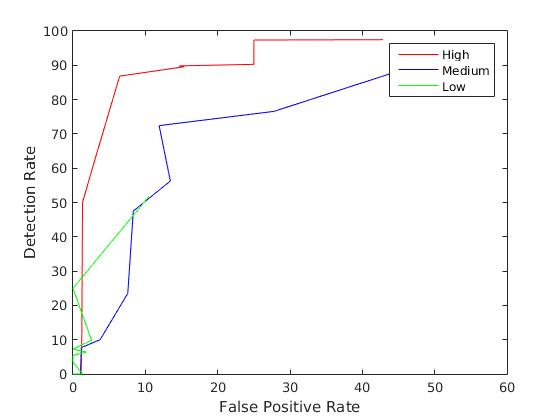
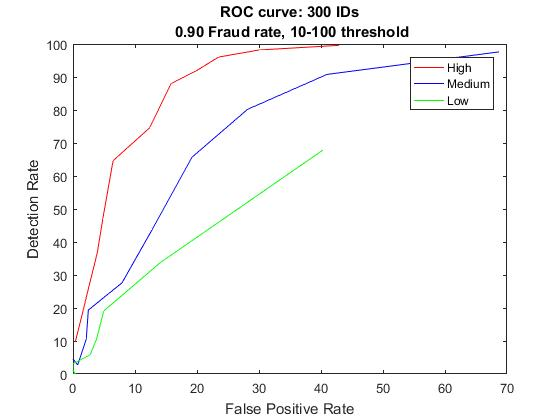
Results ROC

diff --git a/ROC_curves.m b/ROC_curves.m
@@ -33,7 +33,7 @@ cd ../../Thesis/; %Matlab Linux
 [hh, ID]=pickConsumers(sData);
 
 % pick some z vector 
-z=100; % Needs to be 300>
+z=300; % Needs to be 300>
 r_cons=randi(size(hh,1),z,1);
 somehh=hh(r_cons,:);
 someID=ID(r_cons,:);
@@ -102,10 +102,9 @@ for id_i=1:length(intensity)
             [precision_t, recall_t, in_recall_t, accuracy_t, F1score_t] = confusionMatrix (class_ID, pred_ID);
             DR_IDs(id_th, id_i)=recall_t;
             FPR_IDs(id_th,id_i)=in_recall_t;
-            
             rouf_id=find(pred_ID==1);
             roufianos=someID(rouf_id); % Keeps all the ID that contain intrusion
     end
 end
 
-plotCurves(FPR_IDs,DR_IDs);
+plotCurves(FPR_IDs,DR_IDs,z,fraud_rate,thresh);

diff --git a/plotCurves.m b/plotCurves.m
@@ -1,4 +1,4 @@
-function plotCurves(X,Y)
+function plotCurves(X,Y, IDs, fraud_rate,thresh)
 % This funstion is used to plot ROC curves
 % X and Y should be matrices 
 % X coordinate is FPR-inverse recall
@@ -6,6 +6,11 @@ function plotCurves(X,Y)
 plot(X(:,1),Y(:,1),'color', 'r'); hold on;
 plot(X(:,2),Y(:,2),'color','b'); hold on;
 plot(X(:,3),Y(:,3),'color','g');
+
+min_t=min(thresh);
+max_t=max(thresh);
+str = sprintf('ROC curve: %d IDs\n %4.2f Fraud rate, %d-%d threshold',IDs, fraud_rate, min_t, max_t);
+title(str);
 xlabel('False Positive Rate');
 ylabel('Detection Rate');
 legend('High','Medium','Low');
